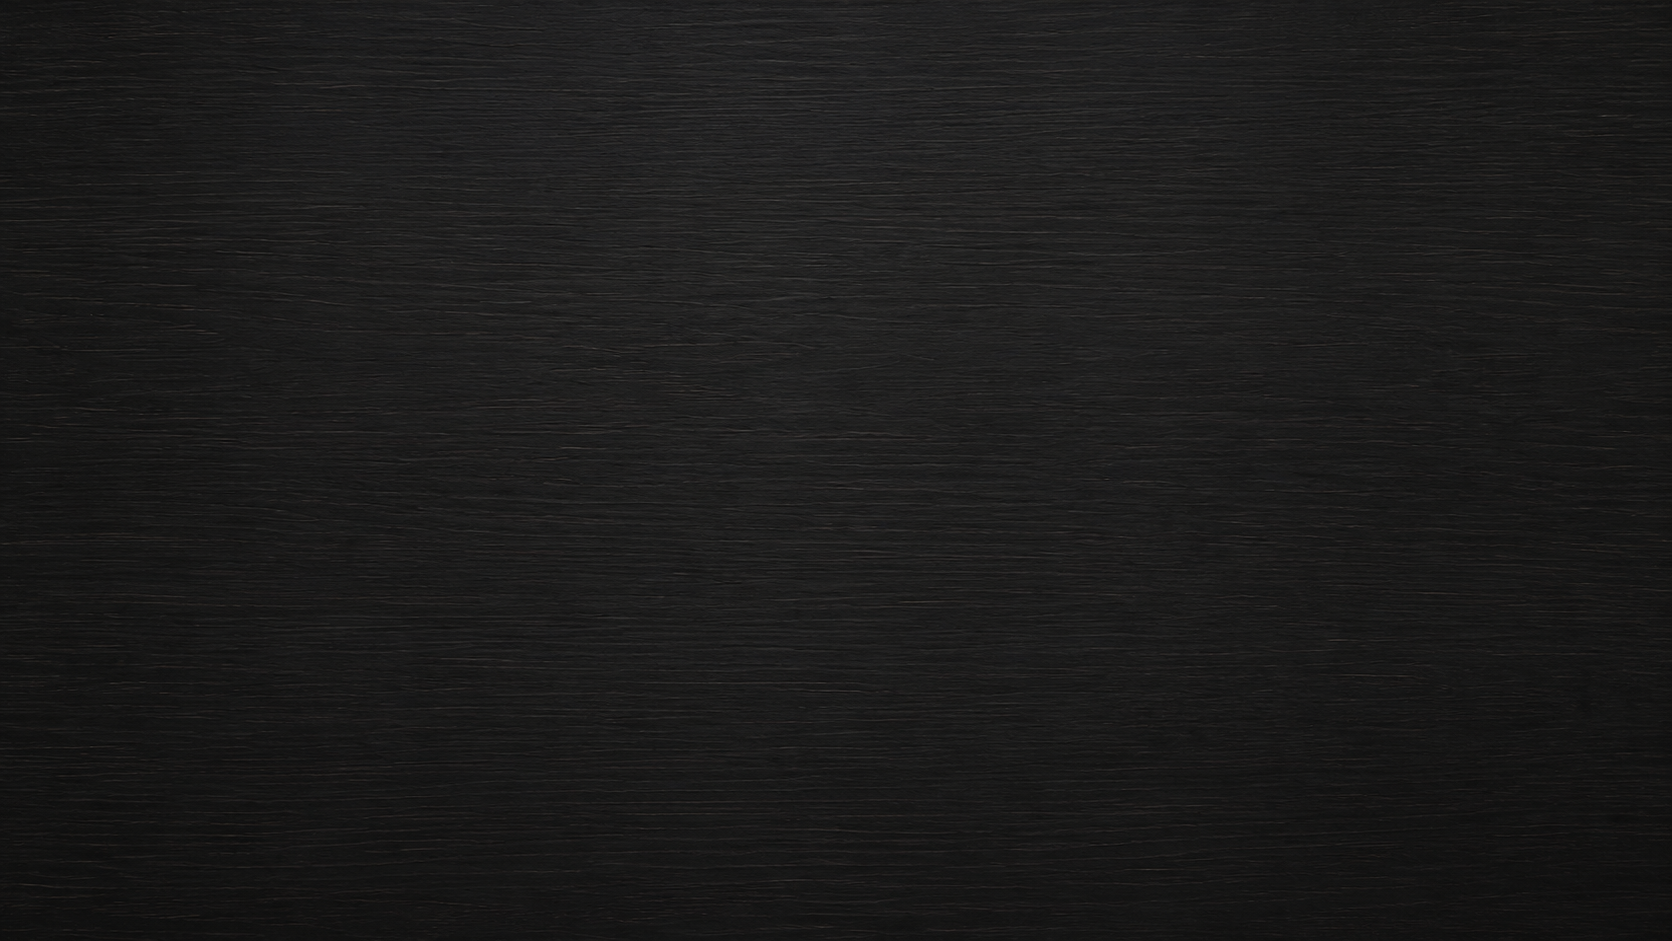
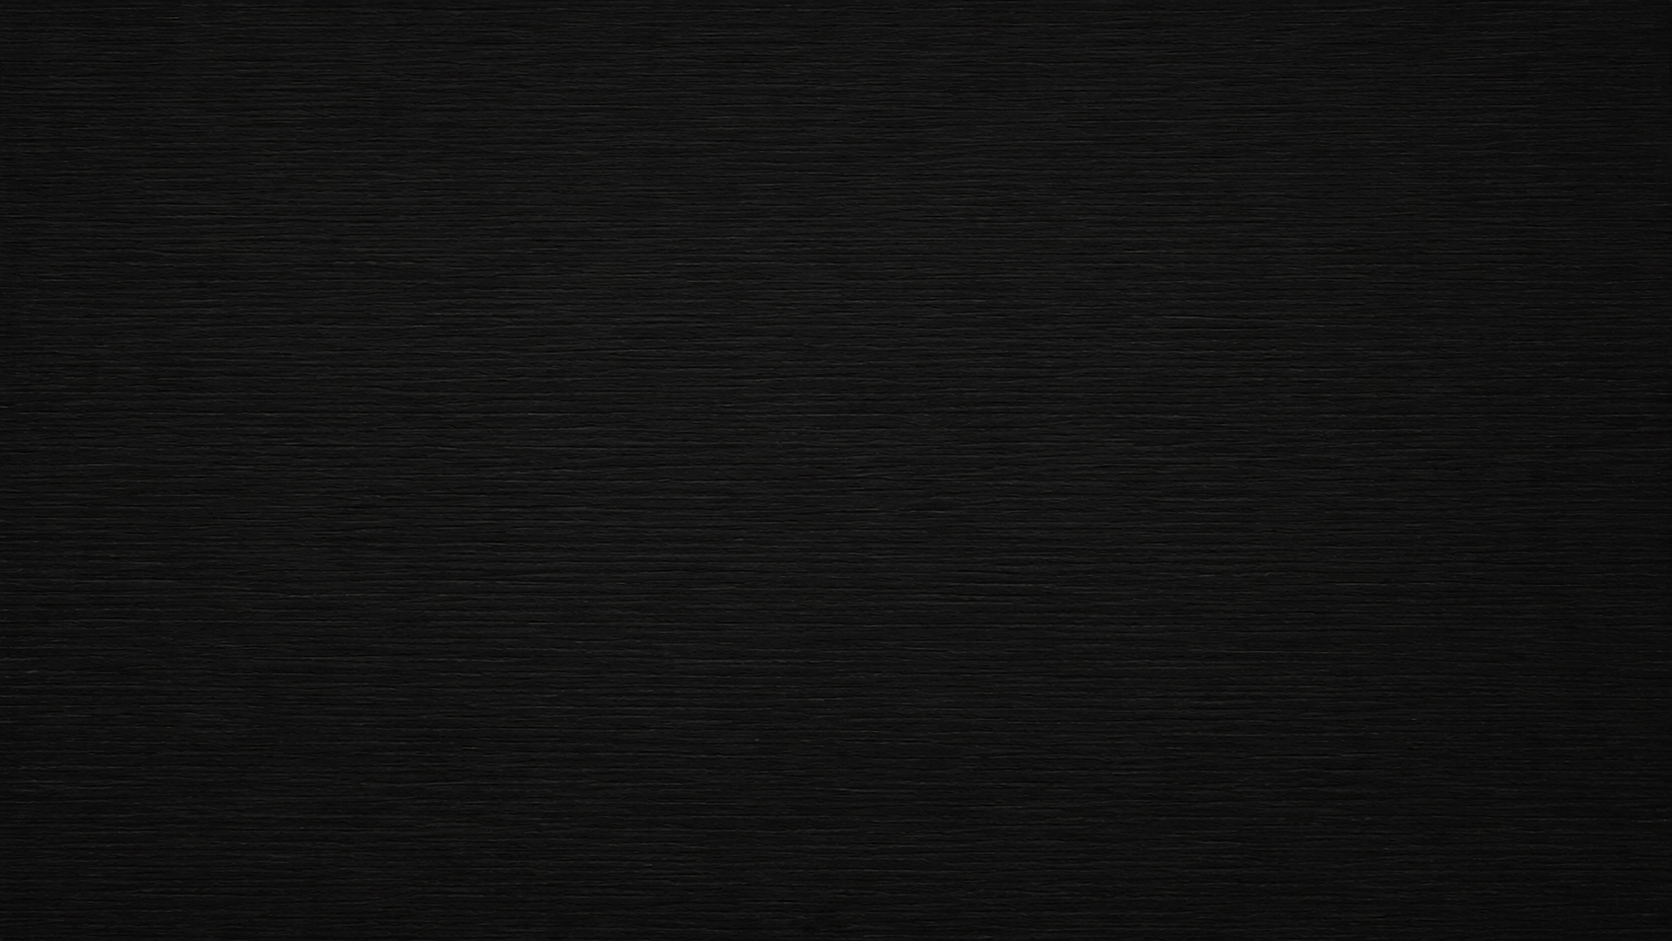
обнова перед сном

diff --git a/index.css b/index.css
@@ -683,11 +683,7 @@ main {
     position: absolute;
     inset: 0;
     z-index: 0;
-    background:
-        linear-gradient(90deg, rgba(5, 7, 5, 0.24), rgba(5, 7, 5, 0.08) 50%, rgba(5, 7, 5, 0.24)),
-        linear-gradient(180deg, rgba(5, 7, 5, 0.3), rgba(5, 7, 5, 0.68)),
-        url("./backgroundforall.png?v=20260902") center / 100% 100% no-repeat,
-        #050705;
+    background: url("./backgroundforall.png?v=20260902-v2") center / 100% 100% no-repeat, #050705;
     opacity: 1;
     pointer-events: none;
 }
@@ -696,9 +692,7 @@ main {
     position: absolute;
     inset: 0;
     z-index: 1;
-    background:
-        linear-gradient(90deg, rgba(5, 7, 5, 0.48), rgba(5, 7, 5, 0.18) 24%, rgba(5, 7, 5, 0.18) 76%, rgba(5, 7, 5, 0.48)),
-        linear-gradient(180deg, rgba(5, 7, 5, 0.18), rgba(5, 7, 5, 0.66));
+    background: transparent;
     pointer-events: none;
 }
 
@@ -1013,13 +1007,15 @@ h3 {
 
 .category-grid {
     display: grid;
-    grid-template-columns: repeat(3, minmax(0, 1fr));
+    grid-template-columns: repeat(auto-fit, minmax(min(100%, 300px), 1fr));
     gap: 20px;
+    align-items: stretch;
 }
 
 .category-card {
     position: relative;
     display: grid;
+    min-width: 0;
     min-height: 430px;
     aspect-ratio: 4 / 5;
     overflow: hidden;
@@ -1140,6 +1136,7 @@ h3 {
     z-index: 1;
     align-self: end;
     display: grid;
+    min-width: 0;
     gap: 12px;
     min-height: 176px;
     padding: 28px;
@@ -1150,11 +1147,13 @@ h3 {
 .category-content strong {
     font-size: clamp(28px, 3vw, 38px);
     line-height: 1.08;
+    overflow-wrap: anywhere;
 }
 
 .category-content > span:last-child {
     color: rgba(255, 255, 255, 0.76);
     line-height: 1.55;
+    overflow-wrap: anywhere;
 }
 
 .product-number {

diff --git a/index.html b/index.html
@@ -6,7 +6,7 @@
     <meta name="description" content="Nikas - качественные пищевые продукты для дома, кафе и магазинов.">
     <title>Nikas - пищевые продукты</title>
     <link rel="icon" href="./icon_nikas-2.png">
-    <link rel="stylesheet" href="./index.css?v=20260902-hero-v3">
+    <link rel="stylesheet" href="./index.css?v=20260902-hero-v4">
 </head>
 <body>
     <header class="site-header">
